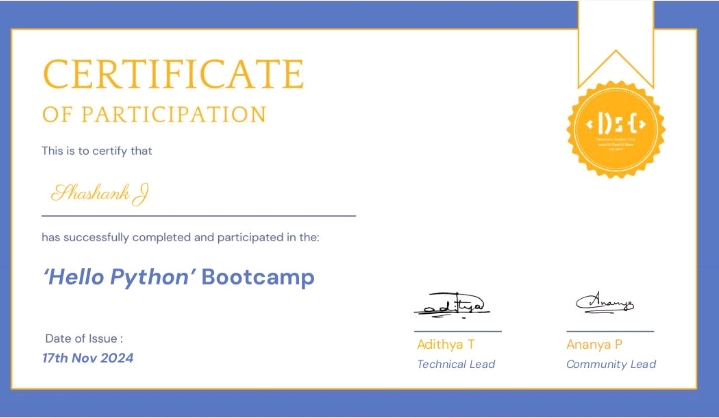
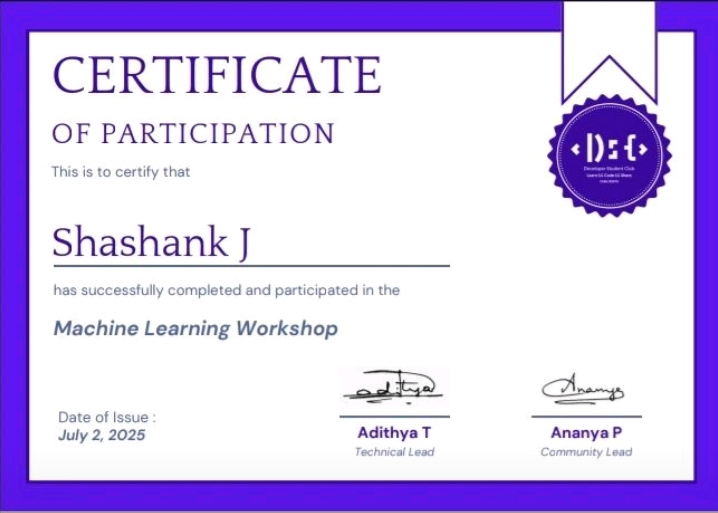
fix: clean profile photo path, always visible 4-level tags, and card-style modal certificate frame

diff --git a/style.css b/style.css
@@ -479,9 +479,8 @@ ul {
 .hero-photo-wrapper {
   position: relative;
   width: 320px;
-  height: 400px;
+  height: 410px;
   margin: 0 auto 30px auto;
-  cursor: pointer;
 }
 
 .photo-frame {
@@ -491,22 +490,18 @@ ul {
   overflow: hidden;
   border: 2px solid var(--accent-border);
   box-shadow: var(--shadow-hover);
-  background-color: var(--bg-alt);
+  background-color: #f1f5f9;
   transition: transform var(--transition-smooth), box-shadow var(--transition-smooth);
-}
-
-.hero-photo-wrapper:hover .photo-frame {
-  transform: scale(1.02);
-  box-shadow: 0 20px 40px -4px rgba(15, 23, 42, 0.16);
 }
 
 .profile-img {
   width: 100%;
   height: 100%;
   object-fit: cover;
+  display: block;
 }
 
-/* Floating Badges Base */
+/* Floating Badges Base - ALWAYS VISIBLE */
 .floating-badge {
   position: absolute;
   background-color: #ffffff;
@@ -519,40 +514,38 @@ ul {
   box-shadow: 0 10px 25px -4px rgba(15, 23, 42, 0.12), 0 4px 6px -2px rgba(15, 23, 42, 0.05);
   z-index: 5;
   white-space: nowrap;
-  max-width: 255px;
-  transition: all 0.38s cubic-bezier(0.4, 0, 0.2, 1);
+  max-width: 260px;
+  transition: transform 0.3s cubic-bezier(0.4, 0, 0.2, 1), box-shadow 0.3s ease;
 }
 
-/* PHOTO HOVER INTERACTION: All tags smoothly vanish when hovering photo */
-.hero-photo-wrapper:hover .floating-badge {
-  opacity: 0;
-  transform: scale(0.9) translateY(4px);
-  pointer-events: none;
+.floating-badge:hover {
+  transform: translateY(-3px) scale(1.02);
+  box-shadow: 0 14px 28px -4px rgba(15, 23, 42, 0.16);
 }
 
 /* 4 DISTINCT VERTICAL LEVELS (Alternating Left - Right - Left - Right) */
 /* Level 1: Left */
 .badge-level-1 {
   top: 6%;
-  left: -40px;
+  left: -44px;
 }
 
 /* Level 2: Right */
 .badge-level-2 {
   top: 32%;
-  right: -40px;
+  right: -44px;
 }
 
 /* Level 3: Left */
 .badge-level-3 {
   top: 58%;
-  left: -40px;
+  left: -44px;
 }
 
 /* Level 4: Right */
 .badge-level-4 {
   top: 84%;
-  right: -40px;
+  right: -44px;
 }
 
 .badge-icon-box {
@@ -1083,7 +1076,7 @@ ul {
 .modal-dialog {
   position: relative;
   width: 94%;
-  max-width: 1060px;
+  max-width: 1080px;
   max-height: 90vh;
   background-color: #ffffff;
   border-radius: var(--radius-lg);
@@ -1154,36 +1147,36 @@ ul {
 
 .modal-body-split {
   display: grid;
-  grid-template-columns: 1.05fr 1fr;
+  grid-template-columns: 1.1fr 1fr;
   overflow-y: auto;
   flex: 1;
 }
 
+/* Presentation Card Frame inside Left Column */
 .modal-image-col {
   background-color: #f1f5f9;
   padding: 24px;
   display: flex;
-  flex-direction: column;
   align-items: center;
   justify-content: center;
-  gap: 14px;
   border-right: 1px solid var(--accent-border);
 }
 
 .modal-card-visual-frame {
   position: relative;
   width: 100%;
-  min-height: 280px;
-  max-height: 52vh;
+  height: 100%;
+  min-height: 320px;
+  max-height: 56vh;
   display: flex;
   align-items: center;
   justify-content: center;
   border-radius: var(--radius-md);
   overflow: hidden;
-  box-shadow: var(--shadow-card);
+  box-shadow: 0 10px 25px -4px rgba(15, 23, 42, 0.12), 0 4px 6px -2px rgba(15, 23, 42, 0.05);
   border: 1.5px solid var(--accent-border);
   background-color: #ffffff;
-  padding: 10px;
+  padding: 12px;
 }
 
 .card-visual-badge {
@@ -1204,25 +1197,12 @@ ul {
 
 .modal-cert-image {
   max-width: 100%;
-  max-height: 48vh;
+  max-height: 52vh;
   width: 100%;
   height: auto;
   object-fit: contain;
   display: block;
   border-radius: 6px;
-}
-
-.modal-image-action-row {
-  width: 100%;
-  display: flex;
-  justify-content: center;
-}
-
-.modal-fullview-btn {
-  font-size: 0.82rem;
-  font-weight: 600;
-  padding: 6px 16px;
-  background-color: #ffffff;
 }
 
 .modal-details-col {
@@ -1829,11 +1809,11 @@ a.ci-val:hover {
     padding: 16px;
   }
   .modal-card-visual-frame {
-    min-height: 200px;
-    max-height: 35vh;
+    min-height: 220px;
+    max-height: 38vh;
   }
   .modal-cert-image {
-    max-height: 32vh;
+    max-height: 35vh;
   }
 }
 
@@ -1862,11 +1842,35 @@ a.ci-val:hover {
     font-size: 2.8rem;
   }
   .hero-photo-wrapper {
-    width: 250px;
-    height: 320px;
+    width: 270px;
+    height: 360px;
+  }
+  /* On mobile screens, adjust offsets so badges never clip or hide */
+  .badge-level-1 {
+    left: -16px;
+    top: 4%;
+  }
+  .badge-level-2 {
+    right: -16px;
+    top: 30%;
+  }
+  .badge-level-3 {
+    left: -16px;
+    top: 56%;
+  }
+  .badge-level-4 {
+    right: -16px;
+    top: 82%;
   }
   .floating-badge {
-    display: none;
+    padding: 6px 10px;
+    max-width: 220px;
+  }
+  .badge-title {
+    font-size: 0.76rem;
+  }
+  .badge-subtitle {
+    font-size: 0.65rem;
   }
   .hero-stats-card {
     flex-wrap: wrap;

diff --git a/script.js b/script.js
@@ -16,7 +16,7 @@ const journeyCredentials = [
     id: 'Credential ID: MIMO-FS-2026',
     type: 'Professional Certification',
     desc: 'Comprehensive full-stack engineering curriculum validation. Covered full MERN architecture (MongoDB, Express.js, React.js, Node.js), client-side state lifecycles, RESTful API design, database indexing, user authentication tokens (JWT), and end-to-end cloud deployment pipelines.',
-    img: 'certificates/cert-mimo-fullstack.png'
+    img: 'certificates/cert-mimo-fullstack.jpg'
   },
   {
     category: 'fullstack',
@@ -28,7 +28,7 @@ const journeyCredentials = [
     id: 'Credential ID: MIMO-FE-2026',
     type: 'Frontend Engineering',
     desc: 'Validated mastery of modern client-facing web architecture: DOM manipulation, modern CSS flexbox & grid design systems, asynchronous JavaScript event loops, responsive layout engineering, and web accessibility standards.',
-    img: 'certificates/cert-mimo-frontend.png'
+    img: 'certificates/cert-mimo-frontend.jpg'
   },
   {
     category: 'fullstack',
@@ -40,7 +40,7 @@ const journeyCredentials = [
     id: 'Credential ID: MIMO-BE-2026',
     type: 'Backend Engineering',
     desc: 'Validated server-side architecture configurations, Node.js runtime fundamentals, Express routing middleware pipelines, request security handling, rate limiting, and structured relational & document database integrations.',
-    img: 'certificates/cert-mimo-backend.png'
+    img: 'certificates/cert-mimo-backend.jpg'
   },
   {
     category: 'fullstack',
@@ -52,7 +52,7 @@ const journeyCredentials = [
     id: 'Credential ID: MIMO-REACT-2026',
     type: 'Modern UI Frameworks',
     desc: 'Advanced React Hooks (useState, useEffect, useMemo, useCallback), unidirectional state management, client-side SPA routing, virtual DOM optimization, custom hooks, and modular UI component composition.',
-    img: 'certificates/cert-mimo-react.png'
+    img: 'certificates/cert-mimo-react.jpg'
   },
   {
     category: 'fullstack',
@@ -64,7 +64,7 @@ const journeyCredentials = [
     id: 'Credential ID: MIMO-SQL-2026',
     type: 'Database Systems',
     desc: 'Relational database querying, multi-table complex JOIN operations, aggregation functions, subqueries, schema constraints, ACID transaction management, and indexing strategies for high-throughput reads.',
-    img: 'certificates/cert-mimo-sql.png'
+    img: 'certificates/cert-mimo-sql.jpg'
   },
   {
     category: 'fullstack',
@@ -76,7 +76,7 @@ const journeyCredentials = [
     id: 'Credential ID: MIMO-PY-2026',
     type: 'Core Programming',
     desc: 'Object-oriented programming in Python, algorithm implementation, script-based data transformations, file I/O streams, automation workflows, and backend service integration patterns.',
-    img: 'certificates/cert-mimo-python.png'
+    img: 'certificates/cert-mimo-python.jpg'
   },
 
   // ── Category 2: AI & Generative AI ──
@@ -271,7 +271,6 @@ function renderModalContent() {
   const modalCategoryTag = document.getElementById('modalCategoryTag');
   const modalCounter = document.getElementById('modalCounter');
   const modalImage = document.getElementById('modalImage');
-  const modalImgFullBtn = document.getElementById('modalImgFullBtn');
   const modalVisualBadge = document.getElementById('modalVisualBadge');
   const modalType = document.getElementById('modalType');
   const modalTitle = document.getElementById('modalTitle');
@@ -286,9 +285,6 @@ function renderModalContent() {
   if (modalImage) {
     modalImage.src = item.img;
     modalImage.alt = item.title;
-  }
-  if (modalImgFullBtn) {
-    modalImgFullBtn.href = item.img;
   }
   if (modalVisualBadge) modalVisualBadge.textContent = item.categoryLabel;
   if (modalType) modalType.textContent = item.type;

diff --git a/index.html b/index.html
@@ -102,9 +102,9 @@
 
           <!-- Right Column: Visual Profile & 4 Vertical Alternating Levels (Left - Right - Left - Right) -->
           <div class="hero-visual reveal-scale">
-            <div class="hero-photo-wrapper" id="heroPhotoWrapper" title="Hover over photo to view clearly">
+            <div class="hero-photo-wrapper" id="heroPhotoWrapper">
               <div class="photo-frame">
-                <img src="photo/profile photo.jpeg" alt="Shashank J — Profile Photo" class="profile-img">
+                <img src="photo/profile-photo.jpeg" alt="Shashank J — Profile Photo" class="profile-img">
               </div>
 
               <!-- Level 1: Left Side -->
@@ -665,7 +665,7 @@
 
     <!-- ═══════════════════════════════════════════
          INTERACTIVE TWO-PANEL CREDENTIAL INSPECTOR MODAL
-         (Guaranteed prominent certificate image display & deep-dive metadata)
+         (Card-style presentation panel + deep-dive metadata panel)
          ═══════════════════════════════════════════ -->
     <div class="journey-modal" id="journeyModal" aria-hidden="true">
       <div class="modal-backdrop" id="modalBackdrop"></div>
@@ -685,16 +685,11 @@
         <!-- Modal Split Body -->
         <div class="modal-body-split">
           
-          <!-- Left Panel: Card Preview & Prominent Image Frame -->
+          <!-- Left Panel: Card Preview Frame (Clean Invitation / ID Card Style) -->
           <div class="modal-image-col">
             <div class="modal-card-visual-frame">
               <div class="card-visual-badge" id="modalVisualBadge">Verified Proof</div>
-              <img src="certificates/cert-mimo-fullstack.png" alt="Credential Certificate Preview" id="modalImage" class="modal-cert-image">
-            </div>
-            <div class="modal-image-action-row">
-              <a href="certificates/cert-mimo-fullstack.png" target="_blank" rel="noopener noreferrer" id="modalImgFullBtn" class="btn btn-sm btn-outline modal-fullview-btn">
-                <i class="fas fa-search-plus"></i> Open High-Res Certificate <i class="fas fa-external-link-alt"></i>
-              </a>
+              <img src="certificates/cert-mimo-fullstack.jpg" alt="Credential Certificate Preview" id="modalImage" class="modal-cert-image">
             </div>
           </div>
 
